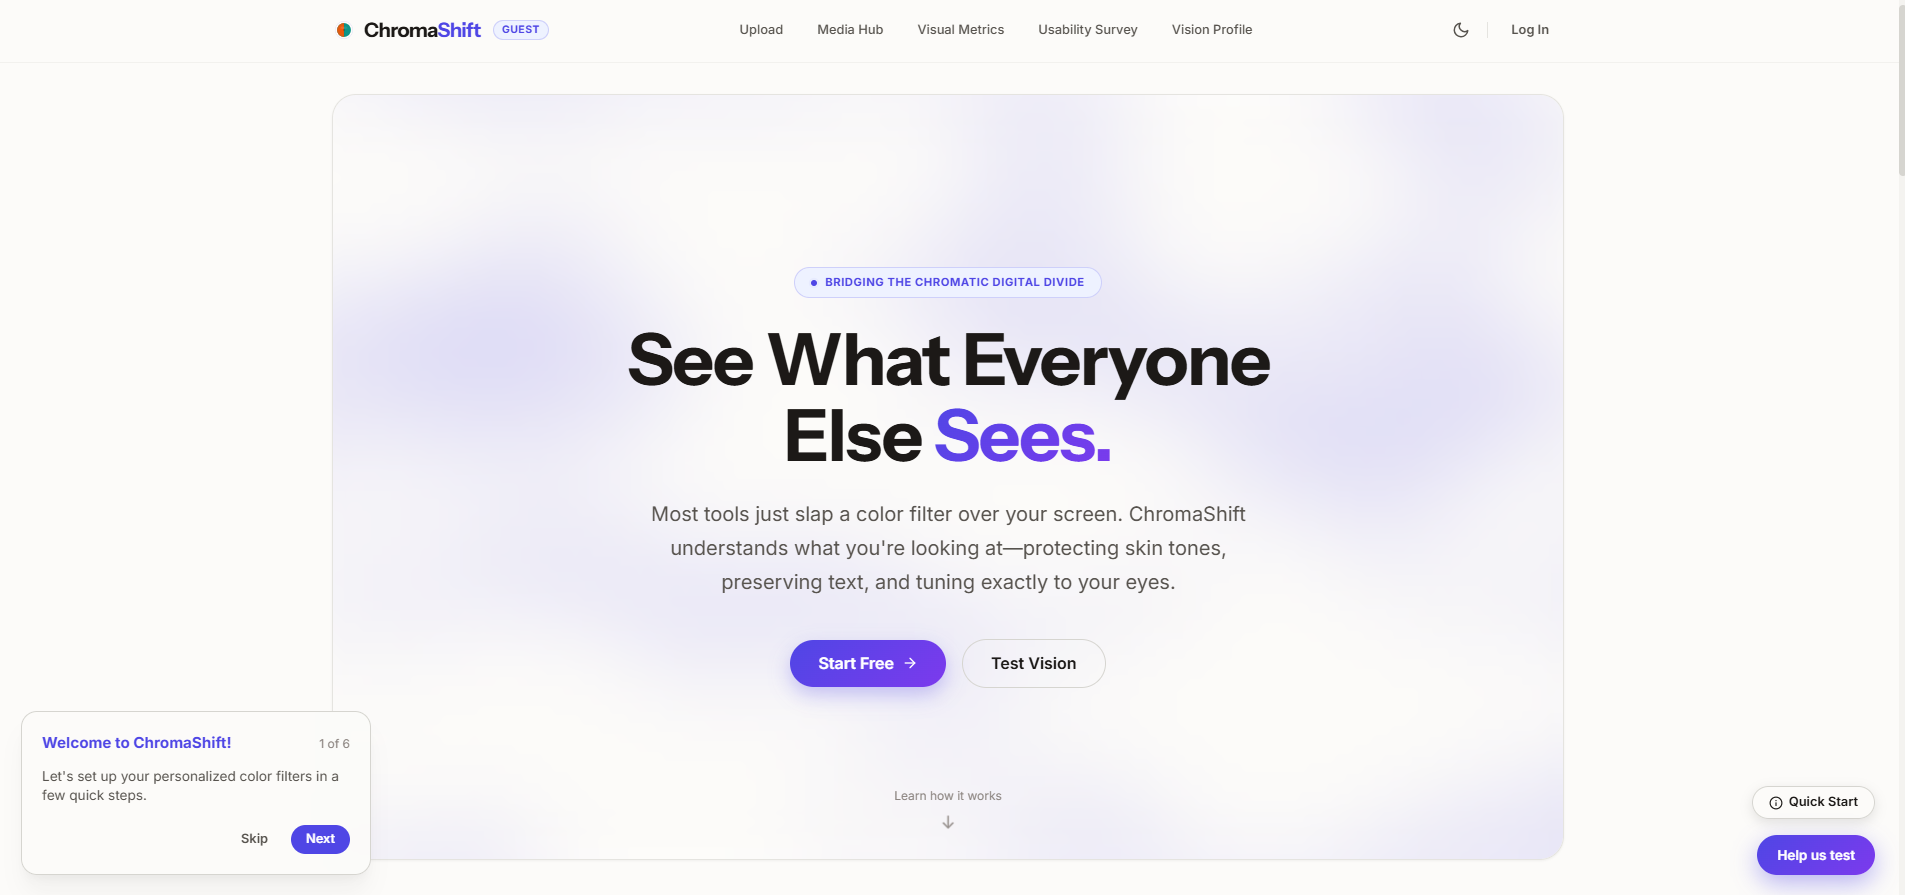
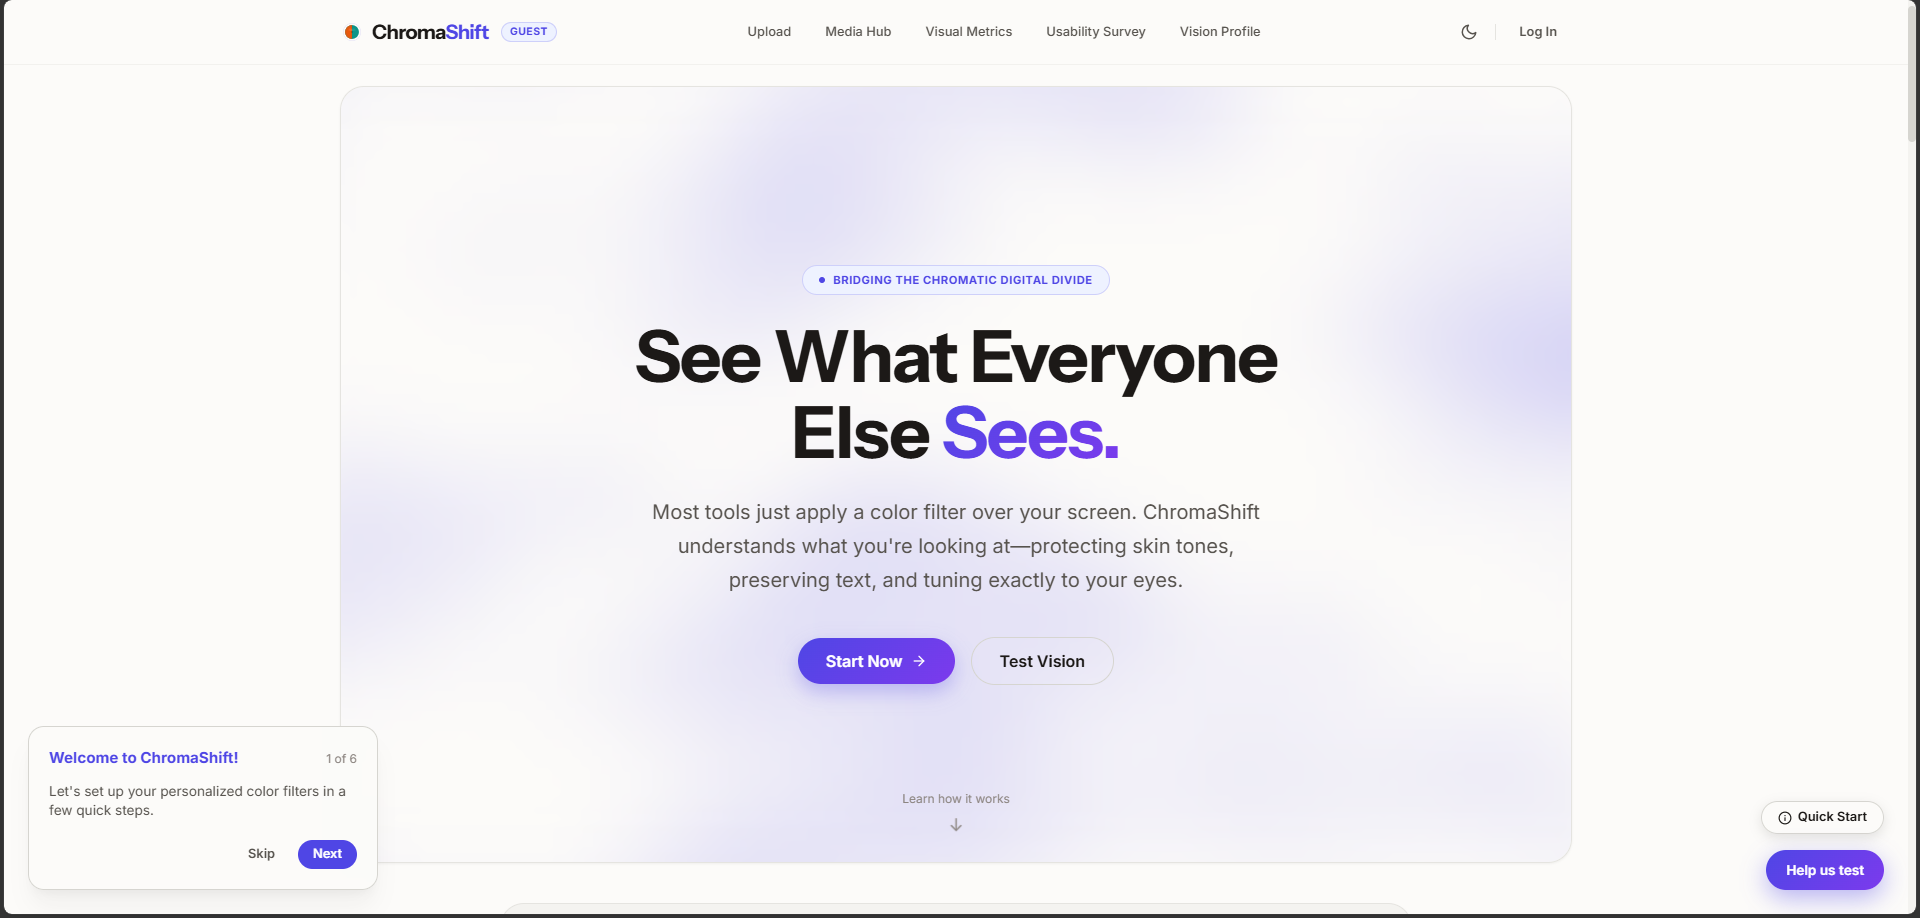
fix: resolve webkit filter rendering and simplify loading states
- Force GPU acceleration (`translate3d`, `willChange: filter`) on SVG elements in VisionTest to resolve Safari/WebKit color filter rendering issues.

- Bind `fullscreenchange` listener to in WorkspaceStudio to re-apply Daltonization filters when entering native full-screen.

- Simplify technical jargon in WorkspaceStudio simulated loading messages to use friendly, plain-English wording.

diff --git a/frontend/src/components/WorkspaceStudio.tsx b/frontend/src/components/WorkspaceStudio.tsx
@@ -28,12 +28,12 @@ export const WorkspaceStudio: React.FC = () => {
   
   // Processing status messages
   const processingMessages = [
-    "Uploading file securely to cloud storage...",
-    "Analyzing image structure and color matrices...",
-    "Applying Daltonization color transformation algorithms...",
-    "Optimizing contrast for accessibility...",
-    "Finalizing image processing...",
-    "Generating compliance report..."
+    "Uploading your file securely...",
+    "Applying color corrections tailored to your vision...",
+    "Did you know? 1 in 12 men are color blind",
+    "Almost done preparing your accessible media...",
+    "Red-green color blindness is the most common type",
+    "Generating your compliance report..."
   ];
   const [loadingMessageIndex, setLoadingMessageIndex] = useState(0);
 
@@ -41,7 +41,7 @@ export const WorkspaceStudio: React.FC = () => {
     if (status?.status === 'processing' || status?.status === 'uploaded') {
       const interval = setInterval(() => {
         setLoadingMessageIndex(prev => (prev + 1) % processingMessages.length);
-      }, 3500);
+      }, 4000);
       return () => clearInterval(interval);
     }
   }, [status?.status]);
@@ -334,7 +334,7 @@ export const WorkspaceStudio: React.FC = () => {
     setIsDeleting(true);
     try {
       await mediaService.deleteMedia(jobId);
-      triggerNotification('success', 'File deleted. Media cleared from active storage.');
+      triggerNotification('success', 'File deleted. Media cleared from storage.');
       navigate('/hub');
     } catch (err) {
       triggerNotification('error', 'Failed to delete file');
@@ -401,7 +401,7 @@ export const WorkspaceStudio: React.FC = () => {
         <div className="skeleton animate-pulse-border" style={{ width: '64px', height: '64px', borderRadius: '50%' }} />
         <h3 style={{ fontFamily: 'var(--font-heading)' }}>AI Re-rendering File...</h3>
         <p style={{ fontSize: '0.85rem', color: 'var(--text-secondary)', lineHeight: '1.5' }}>
-          Our server-side pipeline is applying semantic corrections for your vision deficiency. This will complete in a moment.
+          We are applying your personalized color corrections. This will just take a moment.
         </p>
         <div 
           style={{ 
@@ -442,7 +442,12 @@ export const WorkspaceStudio: React.FC = () => {
   }
 
   const getFilterStyle = (isProcessed: boolean) => {
-    if (!isProcessed) return 'none';
+    if (!isProcessed) {
+      if (selectedPreviewCvd !== 'profile') {
+        return `url(#sim-${selectedPreviewCvd})`;
+      }
+      return 'none';
+    }
     if (selectedPreviewCvd !== 'profile') {
       return `url(#sim-${selectedPreviewCvd})`;
     }
@@ -795,6 +800,8 @@ export const WorkspaceStudio: React.FC = () => {
                             width: '100%', 
                             height: '100%', 
                             objectFit: 'contain',
+                            filter: getFilterStyle(false),
+                            WebkitFilter: getFilterStyle(false),
                             transform: `scale(${zoomLevel}) translate(${panOffset.x / zoomLevel}px, ${panOffset.y / zoomLevel}px)`,
                             transformOrigin: 'center center',
                             cursor: zoomLevel > 1 ? (isDragging ? 'grabbing' : 'grab') : 'default',
@@ -827,6 +834,7 @@ export const WorkspaceStudio: React.FC = () => {
                             objectFit: 'contain', 
                             opacity: isDirty ? 0.6 : 1,
                             filter: getFilterStyle(true),
+                            WebkitFilter: getFilterStyle(true),
                             transform: `scale(${zoomLevel}) translate(${panOffset.x / zoomLevel}px, ${panOffset.y / zoomLevel}px)`,
                             transformOrigin: 'center center',
                             cursor: zoomLevel > 1 ? (isDragging ? 'grabbing' : 'grab') : 'default',
@@ -864,6 +872,7 @@ export const WorkspaceStudio: React.FC = () => {
                         objectFit: 'contain', 
                         opacity: toggleActive === 'processed' && isDirty ? 0.6 : 1,
                         filter: getFilterStyle(toggleActive === 'processed'),
+                        WebkitFilter: getFilterStyle(toggleActive === 'processed'),
                         transform: `scale(${zoomLevel}) translate(${panOffset.x / zoomLevel}px, ${panOffset.y / zoomLevel}px)`,
                         transformOrigin: 'center center',
                         cursor: zoomLevel > 1 ? (isDragging ? 'grabbing' : 'grab') : 'default',
@@ -895,11 +904,20 @@ export const WorkspaceStudio: React.FC = () => {
                         src={status?.download_url_original || ''}
                         controls
                         playsInline
-                        style={{ width: '100%', height: '100%', objectFit: 'contain' }}
+                        style={{ width: '100%', height: '100%', objectFit: 'contain', filter: getFilterStyle(false), WebkitFilter: getFilterStyle(false) }}
                         onPlay={() => syncPlayback('original')}
                         onPause={() => syncPlayback('original')}
                         onSeeking={() => syncPlayback('original')}
                         onSeeked={() => syncPlayback('original')}
+                        onMouseEnter={(e) => {
+                          const el = e.currentTarget;
+                          el.addEventListener('fullscreenchange', () => {
+                            if (document.fullscreenElement === el) {
+                               el.style.filter = getFilterStyle(false);
+                               el.style.webkitFilter = getFilterStyle(false);
+                            }
+                          });
+                        }}
                       />
                     </div>
                   </div>
@@ -915,13 +933,15 @@ export const WorkspaceStudio: React.FC = () => {
                         ref={processedVideoRef}
                         src={status?.download_url || (status?.download_url_original || '')}
                         controls
+                        muted
                         playsInline
                         style={{ 
                           width: '100%', 
                           height: '100%', 
                           objectFit: 'contain', 
                           opacity: isDirty ? 0.6 : 1,
-                          filter: getFilterStyle(true)
+                          filter: getFilterStyle(true),
+                          WebkitFilter: getFilterStyle(true)
                         }}
                         onPlay={() => syncPlayback('processed')}
                         onPause={() => syncPlayback('processed')}
@@ -933,6 +953,7 @@ export const WorkspaceStudio: React.FC = () => {
                           el.addEventListener('fullscreenchange', () => {
                             if (document.fullscreenElement === el) {
                                el.style.filter = getFilterStyle(true);
+                               el.style.webkitFilter = getFilterStyle(true);
                             }
                           });
                         }}
@@ -961,13 +982,15 @@ export const WorkspaceStudio: React.FC = () => {
                       height: '100%', 
                       objectFit: 'contain', 
                       opacity: toggleActive === 'processed' && isDirty ? 0.6 : 1,
-                      filter: getFilterStyle(toggleActive === 'processed')
+                      filter: getFilterStyle(toggleActive === 'processed'),
+                      WebkitFilter: getFilterStyle(toggleActive === 'processed')
                     }}
                     onMouseEnter={(e) => {
                       const el = e.currentTarget;
                       el.addEventListener('fullscreenchange', () => {
                         if (document.fullscreenElement === el) {
                           el.style.filter = getFilterStyle(toggleActive === 'processed');
+                          el.style.webkitFilter = getFilterStyle(toggleActive === 'processed');
                         }
                       });
                     }}
@@ -985,9 +1008,9 @@ export const WorkspaceStudio: React.FC = () => {
 
             {/* PDF renderer */}
             {mediaType === 'pdf' && (
-              isMobile ? (
+              (isMobile || /iPad|iPhone|iPod/.test(navigator.userAgent) || (navigator.platform === 'MacIntel' && navigator.maxTouchPoints > 1)) ? (
                 <div className="vstack gap-4" style={{ padding: isMobile ? '16px 12px' : '24px', backgroundColor: 'var(--bg-secondary)', borderRadius: 'var(--radius-lg)', border: '1px solid var(--border-primary)', alignItems: 'center', textAlign: 'center' }}>
-                  <div className="badge badge-info" style={{ textTransform: 'none', fontWeight: 'bold' }}>Mobile Viewer Mode</div>
+                  <div className="badge badge-info" style={{ textTransform: 'none', fontWeight: 'bold', padding: '8px 16px' }}>Mobile Viewer Mode</div>
                   <p style={{ fontSize: '0.9rem', color: 'var(--text-secondary)', maxWidth: '400px', margin: '0 auto' }}>
                     Scrolling PDF files inside frames can be limited on mobile web browsers. Open the documents in a new tab to view, scroll, and zoom using your device's native PDF reader.
                   </p>
@@ -1022,7 +1045,7 @@ export const WorkspaceStudio: React.FC = () => {
                           src={`${status?.download_url_original}#toolbar=0`}
                           width="100%"
                           height="100%"
-                          style={{ border: '1px solid var(--border-primary)', borderRadius: 'var(--radius-md)', backgroundColor: 'white', minHeight: '580px', filter: getFilterStyle(false) }}
+                          style={{ border: '1px solid var(--border-primary)', borderRadius: 'var(--radius-md)', backgroundColor: 'white', minHeight: '580px', filter: getFilterStyle(false), WebkitFilter: getFilterStyle(false) }}
                           title="Original PDF"
                         />
                       </div>
@@ -1034,7 +1057,7 @@ export const WorkspaceStudio: React.FC = () => {
                           src={`${status?.download_url}#toolbar=0`}
                           width="100%"
                           height="100%"
-                          style={{ border: '1px solid rgba(79, 70, 229, 0.2)', borderRadius: 'var(--radius-md)', backgroundColor: 'white', minHeight: '580px', filter: getFilterStyle(true) }}
+                          style={{ border: '1px solid rgba(79, 70, 229, 0.2)', borderRadius: 'var(--radius-md)', backgroundColor: 'white', minHeight: '580px', filter: getFilterStyle(true), WebkitFilter: getFilterStyle(true) }}
                           title="Processed PDF"
                         />
                       </div>
@@ -1047,7 +1070,7 @@ export const WorkspaceStudio: React.FC = () => {
                       src={toggleActive === 'original' ? (status?.download_url_original || '') : (status?.download_url || '')}
                       width="100%"
                       height="100%"
-                      style={{ border: '1px solid var(--border-primary)', borderRadius: 'var(--radius-lg)', backgroundColor: 'white', minHeight: '580px', filter: getFilterStyle(toggleActive === 'processed') }}
+                      style={{ border: '1px solid var(--border-primary)', borderRadius: 'var(--radius-lg)', backgroundColor: 'white', minHeight: '580px', filter: getFilterStyle(toggleActive === 'processed'), WebkitFilter: getFilterStyle(toggleActive === 'processed') }}
                       title="PDF Toggle Viewer"
                     />
                   </div>

diff --git a/frontend/src/components/DragDropUpload.tsx b/frontend/src/components/DragDropUpload.tsx
@@ -26,12 +26,12 @@ export const DragDropUpload: React.FC = () => {
 
   // Processing status messages
   const processingMessages = [
-    "Uploading file securely to cloud storage...",
-    "Analyzing image structure and color matrices...",
-    "Applying Daltonization color transformation algorithms...",
-    "Optimizing contrast for accessibility...",
-    "Finalizing image processing...",
-    "Generating compliance report..."
+    "Uploading your file securely...",
+    "Applying color corrections tailored to your vision...",
+    "Did you know? 1 in 12 men are color blind",
+    "Almost done preparing your accessible media...",
+    "Red-green color blindness is the most common type",
+    "Generating your compliance report..."
   ];
   const [loadingMessageIndex, setLoadingMessageIndex] = useState(0);
 
@@ -39,7 +39,7 @@ export const DragDropUpload: React.FC = () => {
     if (isUploading) {
       const interval = setInterval(() => {
         setLoadingMessageIndex(prev => (prev + 1) % processingMessages.length);
-      }, 3500);
+      }, 4000);
       return () => clearInterval(interval);
     }
   }, [isUploading]);
@@ -689,8 +689,8 @@ export const DragDropUpload: React.FC = () => {
                 <div className="card-solid" style={{ padding: '16px' }}>
                   <p style={{ fontSize: '0.8rem', color: 'var(--text-secondary)' }}>
                     {activeTab === 0 
-                      ? 'Upload the file to secure S3 storage and process it via fine-tuned server models. Perfect for keeping a permanent archive in your history dashboard.'
-                      : 'Remap colors directly on your device using TensorFlow.js GPU-acceleration. Zero file uploads needed. Faster processing.'}
+                      ? 'Upload your file securely to process and save it to your history.'
+                      : 'Process directly on your device for faster results without uploading.'}
                   </p>
                 </div>
               </div>
@@ -701,10 +701,10 @@ export const DragDropUpload: React.FC = () => {
               <div className="card-solid" style={{ padding: '16px', width: '100%' }}>
                 <p style={{ fontSize: '0.8rem', color: 'var(--text-secondary)' }}>
                   {isPdf 
-                    ? 'Your PDF will be uploaded to securely hosted S3 storage. Our PyMuPDF pipeline will semantically recolor charts and diagrams while perfectly preserving all vector text layers for screen-reader accessibility.'
+                    ? 'Your PDF will be securely processed to ensure charts and diagrams are accessible while keeping text readable for screen readers.'
                     : isImage
-                    ? 'Your image will be uploaded to securely hosted S3 storage. Our YOLO26n-seg pipeline will apply precise semantic Daltonization while ensuring 100% lightness preservation.'
-                    : 'Your file will be uploaded to securely hosted S3 storage. Our backend fine-tuned Daltonization pipelines will apply CVD accessibility corrections.'}
+                    ? 'Your image will be securely processed to ensure colors are accessible while preserving brightness.'
+                    : 'Your file will be securely processed for color accessibility.'}
                 </p>
               </div>
             )}

diff --git a/frontend/src/components/VisionTest.tsx b/frontend/src/components/VisionTest.tsx
@@ -697,7 +697,7 @@ export const VisionTest: FC = () => {
                   lineHeight: '1.4'
                 }}
               >
-                💡 <strong>Recommendation:</strong> Play the <strong>Playground Sandbox</strong> first to get familiar with the tasks before starting the <strong>Official Usability Study</strong>.
+                <strong>Recommendation:</strong> Play the <strong>Playground Sandbox</strong> first to get familiar with the tasks before starting the <strong>Official Usability Study</strong>.
               </div>
             </div>
 
@@ -949,7 +949,7 @@ export const VisionTest: FC = () => {
               >
                 {/* TASK 1: Line Chart */}
                 {currentTaskIndex === 0 && (
-                  <div style={{ height: '260px', width: '100%', position: 'relative', filter: (testPhase === 'test_corrected') ? 'url(#vision-daltonize-filter)' : 'none' }}>
+                  <div style={{ height: '260px', width: '100%', position: 'relative', filter: (testPhase === 'test_corrected') ? 'url(#vision-daltonize-filter)' : 'none', transform: 'translate3d(0, 0, 0)', WebkitTransform: 'translate3d(0, 0, 0)', willChange: 'filter' }}>
                     <svg viewBox="0 0 400 200" width="100%" height="100%" style={{ backgroundColor: '#ffffff', borderRadius: 'var(--radius-md)', padding: '10px' }}>
                       <line x1="40" y1="20" x2="380" y2="20" stroke="#e2e8f0" strokeWidth="1" />
                       <line x1="40" y1="60" x2="380" y2="60" stroke="#e2e8f0" strokeWidth="1" />
@@ -1050,7 +1050,7 @@ export const VisionTest: FC = () => {
 
                 {/* TASK 2: Bar Chart */}
                 {currentTaskIndex === 1 && (
-                  <div style={{ height: '260px', width: '100%', filter: (testPhase === 'test_corrected') ? 'url(#vision-daltonize-filter)' : 'none' }}>
+                  <div style={{ height: '260px', width: '100%', filter: (testPhase === 'test_corrected') ? 'url(#vision-daltonize-filter)' : 'none', transform: 'translate3d(0, 0, 0)', WebkitTransform: 'translate3d(0, 0, 0)', willChange: 'filter' }}>
                     <svg viewBox="0 0 400 200" width="100%" height="100%" style={{ backgroundColor: '#ffffff', borderRadius: 'var(--radius-md)', padding: '10px' }}>
                       <line x1="40" y1="40" x2="380" y2="40" stroke="#e2e8f0" strokeWidth="1" />
                       <line x1="40" y1="75" x2="380" y2="75" stroke="#e2e8f0" strokeWidth="1" />
@@ -1130,7 +1130,10 @@ export const VisionTest: FC = () => {
                         maxWidth: '260px',
                         width: '100%',
                         margin: '0 auto',
-                        filter: (testPhase === 'test_corrected') ? 'url(#vision-daltonize-filter)' : 'none'
+                        filter: (testPhase === 'test_corrected') ? 'url(#vision-daltonize-filter)' : 'none',
+                        transform: 'translate3d(0, 0, 0)',
+                        WebkitTransform: 'translate3d(0, 0, 0)',
+                        willChange: 'filter'
                       }}
                     >
                       {Array.from({ length: 4 }).map((_, rIdx) => 
@@ -1184,7 +1187,10 @@ export const VisionTest: FC = () => {
                         alignItems: 'center',
                         justifyContent: 'center',
                         overflow: 'hidden',
-                        filter: (testPhase === 'test_corrected') ? 'url(#vision-daltonize-filter)' : 'none'
+                        filter: (testPhase === 'test_corrected') ? 'url(#vision-daltonize-filter)' : 'none',
+                        transform: 'translate3d(0, 0, 0)',
+                        WebkitTransform: 'translate3d(0, 0, 0)',
+                        willChange: 'filter'
                       }}
                     >
                       <div className="hstack gap-6" style={{ alignItems: 'center' }}>
@@ -1257,7 +1263,10 @@ export const VisionTest: FC = () => {
                         borderRadius: 'var(--radius-md)',
                         border: '1px solid var(--border-primary)',
                         overflow: 'hidden',
-                        filter: (testPhase === 'test_corrected') ? 'url(#vision-daltonize-filter)' : 'none'
+                        filter: (testPhase === 'test_corrected') ? 'url(#vision-daltonize-filter)' : 'none',
+                        transform: 'translate3d(0, 0, 0)',
+                        WebkitTransform: 'translate3d(0, 0, 0)',
+                        willChange: 'filter'
                       }}
                     >
                       <div className="vstack" style={{ width: '100%' }}>

diff --git a/frontend/src/components/OnboardingTour.tsx b/frontend/src/components/OnboardingTour.tsx
@@ -137,7 +137,9 @@ export const OnboardingTour: React.FC = () => {
       <div className="hstack gap-2" style={{ justifyContent: 'flex-end', marginTop: '8px' }}>
         <button onClick={handleClose} className="btn btn-sm btn-ghost">Skip</button>
         <button onClick={handleNext} className="btn btn-sm btn-primary">
-          {currentStep === steps.length - 1 ? 'Get Started' : 'Next'}
+          {currentStep === steps.length - 1 
+            ? (localStorage.getItem('chromashift_survey_completed') === 'true' ? 'Complete Tour' : 'Get Started') 
+            : 'Next'}
         </button>
       </div>
     </div>

diff --git a/frontend/src/App.tsx b/frontend/src/App.tsx
@@ -161,7 +161,7 @@ const AppLayout = ({ children }: { children: React.ReactNode }) => {
           flexWrap: 'wrap',
           zIndex: 101
         }}>
-          <span>🎨 Guest session — calibration auto-prunes in 24 hours.</span>
+          <span>Guest session — calibration auto-prunes in 24 hours.</span>
         </div>
       )}
 

diff --git a/frontend/src/components/DashboardHistory.tsx b/frontend/src/components/DashboardHistory.tsx
@@ -162,7 +162,7 @@ export const DashboardHistory: FC = () => {
       const updated = history.filter(item => item.job_id !== jobToDelete);
       setHistory(updated);
       sessionStorage.setItem('chromashift_history_cache', JSON.stringify(updated));
-      triggerNotification('success', 'File deleted. Media cleared from active storage.');
+      triggerNotification('success', 'File deleted. Media cleared from storage.');
     } catch (error) {
       console.error("Deletion failed", error);
       triggerNotification('error', 'Deletion failed. Please try again.');

diff --git a/frontend/src/components/LandingPage.tsx b/frontend/src/components/LandingPage.tsx
@@ -180,7 +180,7 @@ export const LandingPage: React.FC = () => {
             maxWidth: '640px',
             margin: '0 auto 40px auto'
           }}>
-            Most tools just slap a color filter over your screen. ChromaShift understands what you're looking at—protecting skin tones, preserving text, and tuning exactly to your eyes.
+            Most tools just apply a color filter over your screen. ChromaShift understands what you're looking at—protecting skin tones, preserving text, and tuning exactly to your eyes.
           </p>
 
           <div className="hstack gap-4 animate-slide-up" style={{ justifyContent: 'center', flexWrap: 'wrap' }}>

diff --git a/frontend/src/components/SurveyWizard.tsx b/frontend/src/components/SurveyWizard.tsx
@@ -1173,7 +1173,7 @@ export const SurveyWizard: React.FC<SurveyWizardProps> = ({ performanceMetrics, 
 
               <div className="form-group">
                 <label className="label" htmlFor="onboardingWizard">
-                  3. Was the interactive profile calibration easy to understand? <span style={{ color: 'var(--color-error)' }}>*</span>
+                  3. Did you find the vision profile creation easy to follow? <span style={{ color: 'var(--color-error)' }}>*</span>
                 </label>
                 <textarea
                   id="onboardingWizard"